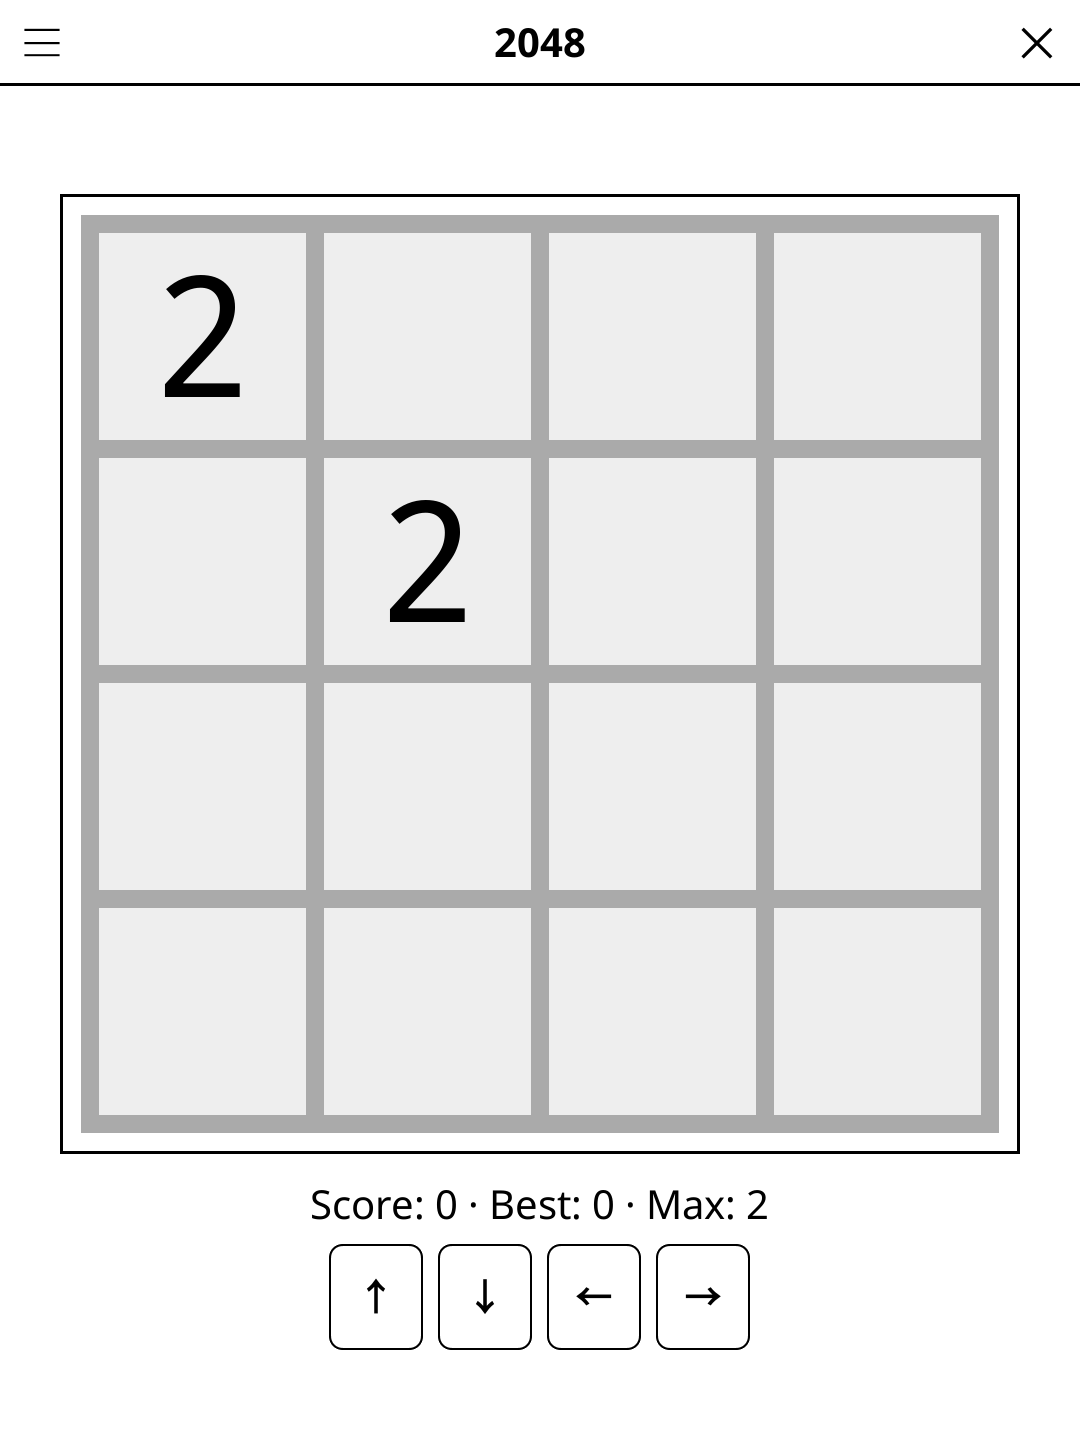
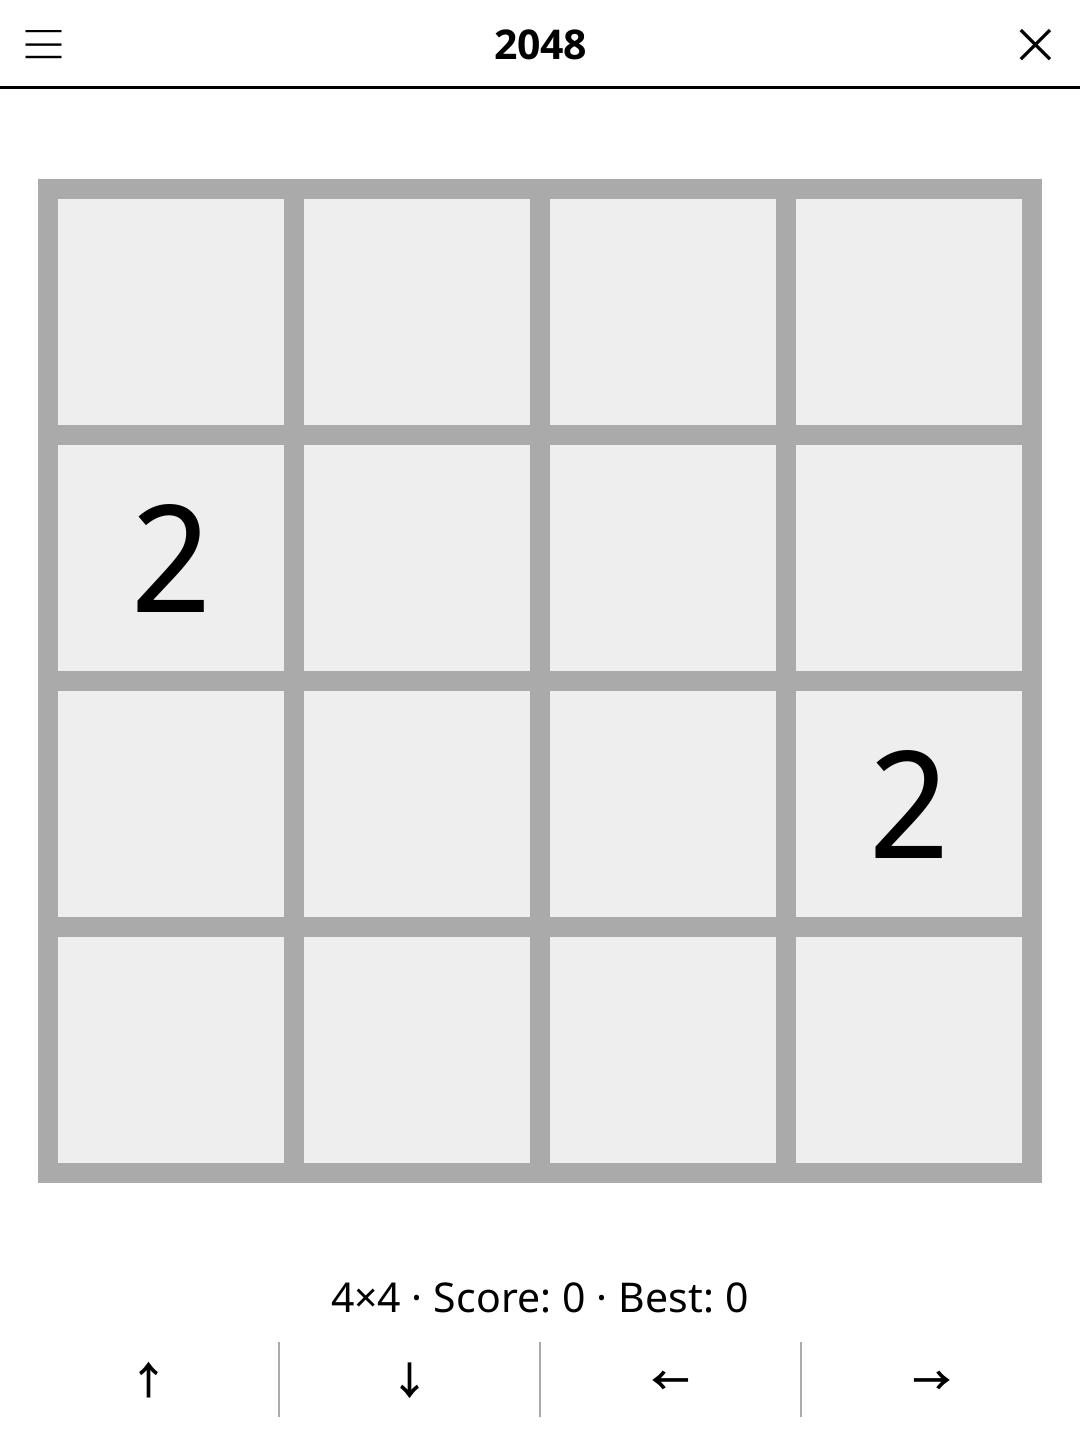
release: 1.2.0 -- redesigned screen, harmonised menu, New game at round end
Screen redesign (full-width action bar, unified pad, status line, larger
board), harmonised title-bar menu, and a "New game" button once the round
is over. See CHANGELOG.md.

diff --git a/CHANGELOG.md b/CHANGELOG.md
@@ -6,6 +6,30 @@ Reconstructed from this repository's git history: each release lists the
 feature and fix commits it carried. Version bumps, screenshot additions
 and CI syncs are left out.
 
+## [1.2.0] - 2026-10-30
+
+### Changed
+- Redesigned play screen. The board fills the room the title bar and controls
+  leave, with one edge instead of the frame's second outline around its own
+  grey background, and the four small arrow buttons became a full-width action
+  bar.
+- The status line reads "4×4 · Score: … · Best: …" and wraps in landscape
+  instead of being cut off. The "Max" part is gone: the board already shows
+  the largest tile.
+- The size entry in the title-bar menu reads "Size: 4×4" instead of a bare
+  "4×4".
+- Once the board is stuck, the action bar shows New game and Undo in place of
+  the arrows, so the next round (or taking back the losing move) no longer
+  needs the menu.
+- The rules mention the arrow buttons as well as swiping.
+
+### Fixed
+- Tile numbers overflowed their tiles on high-DPI screens: their size was a
+  fixed fraction of the tile, which `Font:getFace()` then scaled again by DPI.
+  Each digit count now gets the largest size that fits, including a smaller
+  one for five-digit tiles (65536), and the "Game over" banner is fitted the
+  same way.
+
 ## [1.1.16] - 2026-10-07
 
 ### Fixed
